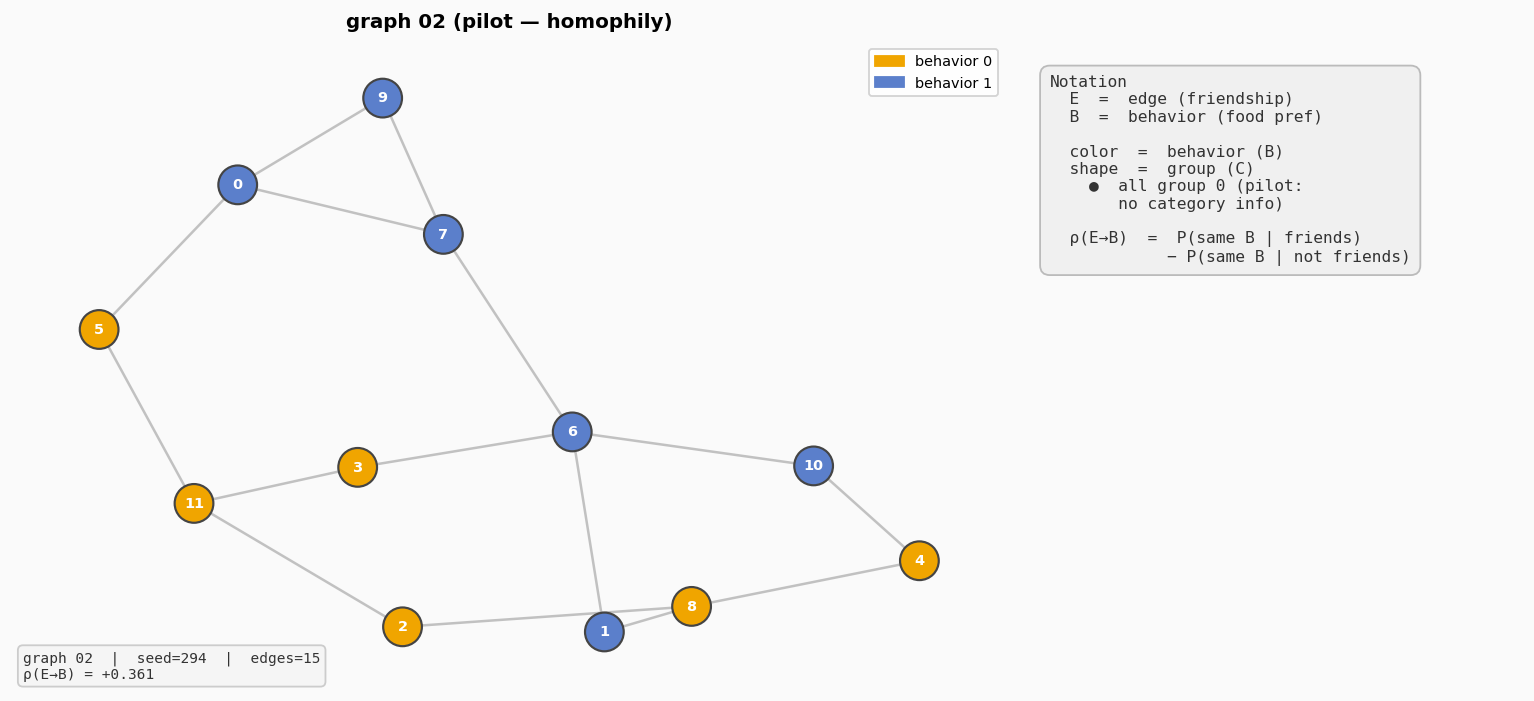
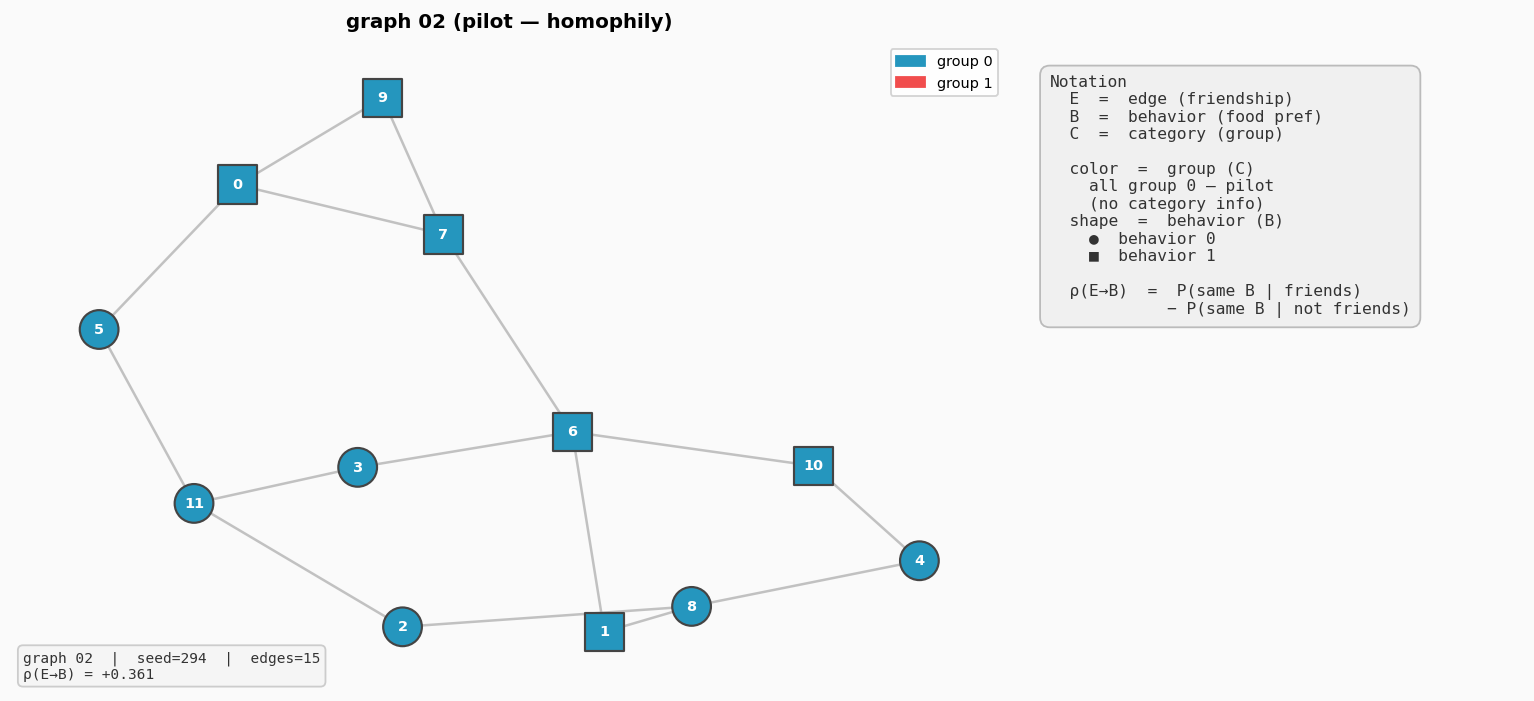
pngs

diff --git a/experiments/exp_1/scripts/generate_graphs.py b/experiments/exp_1/scripts/generate_graphs.py
@@ -19,73 +19,78 @@ N            = 12        # number of nodes (gazorps)
 N_EDGES      = 15        # exact number of edges required
 
 # stochastic block model params
-M    = 2                 # number of behavior communities
-K    = 2                 # number of group groups
+M            = 2         # number of behavior communities
+N_PER_BEH    = 6         # nodes per behavior community (must satisfy M * N_PER_BEH == N)
+K            = 2         # number of groups
+N_PER_GROUP  = 6         # nodes per group (must satisfy K * N_PER_GROUP == N)
 P_IN = 0.357             # within-community edge prob  (tuned for N_EDGES=15)
 P_OUT= 0.119             # between-community edge prob (tuned for N_EDGES=15)
 
 # correlation thresholds
-RHO_EB_MIN   = 0.15      # homophily cond: min ρ(E→B) — edge predicts behavior
-RHO_CB_MIN   = 0.15      # category cond:  min ρ(C→B) — group predicts behavior
-RHO_OTHER_MAX= 0.05      # max |ρ| for the non-signal cue in each condition
+RHO_EB_MIN   = 0.4     # homophily cond: min ρ(E→B) — edge predicts behavior
+RHO_CB_MIN   = 0.4      # category cond:  min ρ(C→B) — group predicts behavior
+RHO_OTHER_MAX= 0.015      # max |ρ| for the non-signal cue in each condition
 
 # other selection criteria
 MIN_DEGREE         = 2
 group_BALANCE_MAX= 0.30   # max |mean_deg_s0 − mean_deg_s1| / mean_deg
-MAX_ATTEMPTS       = 50000
+MAX_ATTEMPTS       = 500000000
 # ─────────────────────────────────────────────────────────────
+
+
+# precompute upper-triangle index pairs once
+_PI, _PJ = np.triu_indices(N, k=1)
 
 
 def compute_rho_EB(A, B):
     # ρ(E→B): P(same behavior | connected) − P(same behavior | not connected)
-    se, sn = [], []
-    for i in range(N):
-        for j in range(i + 1, N):
-            same = int(B[i] == B[j])
-            (se if A[i, j] == 1 else sn).append(same)
-    if not se or not sn:
+    same = (B[_PI] == B[_PJ])
+    conn = A[_PI, _PJ].astype(bool)
+    se, sn = same[conn], same[~conn]
+    if len(se) == 0 or len(sn) == 0:
         return 0.0
-    return float(np.mean(se) - np.mean(sn))
+    return float(se.mean() - sn.mean())
 
 
 def compute_rho_CB(C, B):
     # ρ(C→B): P(group matches behavior) − 0.5
-    return float(np.mean([B[i] == C[i] for i in range(N)]) - 0.5)
+    return float((B == C).mean() - 0.5)
 
 
 def try_make_graph(seed):
     rng = np.random.default_rng(seed)
 
-    latent_B = np.array([b for b in range(M) for _ in range(N // M)])
+    latent_B = np.array([b for b in range(M) for _ in range(N_PER_BEH)])
     rng.shuffle(latent_B)
 
+    # vectorized adjacency generation
+    same_beh = latent_B[_PI] == latent_B[_PJ]
+    probs    = np.where(same_beh, P_IN, P_OUT)
+    mask     = rng.random(len(_PI)) < probs
     A = np.zeros((N, N), dtype=int)
-    for i in range(N):
-        for j in range(i + 1, N):
-            p = P_IN if latent_B[i] == latent_B[j] else P_OUT
-            if rng.random() < p:
-                A[i, j] = A[j, i] = 1
+    A[_PI[mask], _PJ[mask]] = 1
+    A[_PJ[mask], _PI[mask]] = 1
+
+    edge_count = int(mask.sum())
+    if edge_count != N_EDGES:                          return None   # cheap check first
 
     G = nx.from_numpy_array(A)
-    edge_count = int(A.sum() // 2)
-
     if not nx.is_connected(G):                         return None
     if min(dict(G.degree()).values()) < MIN_DEGREE:    return None
-    if edge_count != N_EDGES:                          return None
 
     # homophily condition: behavior = latent, group = random (orthogonal)
-    B_hom    = latent_B.copy()
-    group_pool = np.array([g for g in range(K) for _ in range(N // K)])
-    C_hom    = group_pool.copy()
+    B_hom      = latent_B.copy()
+    group_pool = np.array([g for g in range(K) for _ in range(N_PER_GROUP)])
+    C_hom      = group_pool.copy()
     rng.shuffle(C_hom)
 
     rho_EB_hom = compute_rho_EB(A, B_hom)
-    rho_CB_hom = compute_rho_CB(C_hom, B_hom)
     if rho_EB_hom < RHO_EB_MIN:                       return None
+    rho_CB_hom = compute_rho_CB(C_hom, B_hom)
     if abs(rho_CB_hom) > RHO_OTHER_MAX:               return None
 
     # group balance check
-    deg      = np.array([int(A[i].sum()) for i in range(N)])
+    deg      = A.sum(axis=1)
     mean_deg = float(deg.mean())
     if abs(deg[C_hom == 0].mean() - deg[C_hom == 1].mean()) / mean_deg > group_BALANCE_MAX:
         return None
@@ -94,14 +99,13 @@ def try_make_graph(seed):
     epsilon = float(np.clip(0.5 - rho_EB_hom, 0.0, 0.5))
     C_cat   = group_pool.copy()
     rng.shuffle(C_cat)
-    B_cat   = np.zeros(N, dtype=int)
-    for i in range(N):
-        k = C_cat[i]
-        B_cat[i] = k if rng.random() > epsilon else 1 - k
+    flips   = rng.random(N) < epsilon
+    B_cat   = np.where(flips, 1 - C_cat, C_cat).astype(int)
 
+    if np.sum(B_cat == 0) != N_PER_BEH:               return None   # enforce 6/6 balance
     rho_CB_cat = compute_rho_CB(C_cat, B_cat)
-    rho_EB_cat = compute_rho_EB(A, B_cat)
     if rho_CB_cat < RHO_CB_MIN:                       return None
+    rho_EB_cat = compute_rho_EB(A, B_cat)
     if abs(rho_EB_cat) > RHO_OTHER_MAX:               return None
 
     edges     = [[int(i), int(j)] for i in range(N) for j in range(i+1, N) if A[i, j] == 1]
@@ -137,19 +141,21 @@ def try_make_graph(seed):
 
 
 # ── image generation ──────────────────────────────────────────
-# color = behavior (consistent across both panels)
-# shape = group: circle (0) vs square (1)
-BEH_COLORS = ['#f0a500', '#5b7fcb']   # behavior 0 / behavior 1
+# color = group/species (matches actual gazorp colors)
+# shape = behavior: circle (0) vs square (1)
+GRP_COLORS = ['#2596be', '#f14d4d']   # group 0 = blue gazorp / group 1 = red gazorp
 
 NOTATION_KEY = (
     "Notation\n"
     "  E  =  edge (friendship)\n"
     "  B  =  behavior (food pref)\n"
-    "  C  =  category\n\n"
-    "  color  =  behavior (B)\n"
-    "  shape  =  group (C)\n"
-    "    ●  group 0  (blue gazorp)\n"
-    "    ■  group 1  (red gazorp)\n\n"
+    "  C  =  category (group)\n\n"
+    "  color  =  group (C)\n"
+    "    ■  group 0  (blue gazorp)\n"
+    "    ■  group 1  (red gazorp)\n"
+    "  shape  =  behavior (B)\n"
+    "    ●  behavior 0\n"
+    "    ■  behavior 1\n\n"
     "  ρ(E→B)  =  P(same B | friends)\n"
     "            − P(same B | not friends)\n\n"
     "  ρ(C→B)  =  P(C matches B) − 0.5"
@@ -159,15 +165,22 @@ NOTATION_KEY = (
 def draw_graph(ax, A, behavior, group, edge_list, title, info_lines):
     G   = nx.from_numpy_array(A)
     pos = nx.spring_layout(G, seed=42, k=1.8 / np.sqrt(N))
+    # shift nodes into upper 80% of axes so bottom-left text box doesn't overlap
+    xs = np.array([p[0] for p in pos.values()])
+    ys = np.array([p[1] for p in pos.values()])
+    xs = (xs - xs.min()) / (xs.max() - xs.min() + 1e-9) * 0.85 + 0.05  # [0.05, 0.90]
+    ys = (ys - ys.min()) / (ys.max() - ys.min() + 1e-9) * 0.70 + 0.25  # [0.25, 0.95]
+    pos = {i: (xs[i], ys[i]) for i in pos}
+    ax.set_xlim(0, 1); ax.set_ylim(0, 1)
     nx.draw_networkx_edges(G, pos, edgelist=edge_list, ax=ax,
                            edge_color='#aaaaaa', width=1.4, alpha=0.7)
 
-    # draw circles (group=0) and squares (group=1) separately
-    for spe, shape in [(0, 'o'), (1, 's')]:
-        nodes = [i for i in range(N) if group[i] == spe]
+    # draw circles (behavior=0) and squares (behavior=1), colored by group
+    for beh, shape in [(0, 'o'), (1, 's')]:
+        nodes = [i for i in range(N) if behavior[i] == beh]
         if nodes:
             nx.draw_networkx_nodes(G, pos, nodelist=nodes, ax=ax,
-                                   node_color=[BEH_COLORS[behavior[i]] for i in nodes],
+                                   node_color=[GRP_COLORS[group[i]] for i in nodes],
                                    node_shape=shape, node_size=460,
                                    linewidths=1.2, edgecolors='#444')
 
@@ -192,7 +205,7 @@ def save_graph_image(g, out_dir):
                              gridspec_kw={'width_ratios': [2, 2, 1]})
     fig.patch.set_facecolor('#fafafa')
 
-    # left: homophily condition
+    # left: homophily condition — ρ(E→B) always first, ρ(C→B) always second
     info_hom = [
         f"graph {gid:02d}  |  seed={g['seed']}  |  edges={len(edges)}",
         f"ρ(E→B) = {hom['rho_EB']:+.3f}",
@@ -201,19 +214,19 @@ def save_graph_image(g, out_dir):
     draw_graph(axes[0], A, hom['behavior'], hom['group'],
                edges, f"graph {gid:02d} — homophily cond", info_hom)
 
-    # middle: category condition
+    # middle: category condition — same order: ρ(E→B) first, ρ(C→B) second
     info_cat = [
         f"ε = {g['epsilon']:.3f}",
-        f"ρ(C→B) = {cat['rho_CB']:+.3f}",
         f"ρ(E→B) = {cat['rho_EB']:+.3f}",
+        f"ρ(C→B) = {cat['rho_CB']:+.3f}",
     ]
     draw_graph(axes[1], A, cat['behavior'], cat['group'],
                edges, f"graph {gid:02d} — category cond", info_cat)
 
-    # shared behavior legend
-    beh_legend = [mpatches.Patch(color=BEH_COLORS[i], label=f'behavior {i}') for i in range(2)]
-    axes[0].legend(handles=beh_legend, loc='upper right', fontsize=8, framealpha=0.85)
-    axes[1].legend(handles=beh_legend, loc='upper right', fontsize=8, framealpha=0.85)
+    # shared group legend
+    grp_legend = [mpatches.Patch(color=GRP_COLORS[i], label=f'group {i}') for i in range(2)]
+    axes[0].legend(handles=grp_legend, loc='upper right', fontsize=8, framealpha=0.85)
+    axes[1].legend(handles=grp_legend, loc='upper right', fontsize=8, framealpha=0.85)
 
     # right: notation key
     axes[2].axis('off')

diff --git a/experiments/exp_1_pilot/scripts/generate_graphs.py b/experiments/exp_1_pilot/scripts/generate_graphs.py
@@ -18,7 +18,8 @@ N            = 12        # number of nodes (gazorps)
 N_EDGES      = 15        # exact number of edges required
 
 # stochastic block model params
-M    = 2                 # number of behavior communities
+M            = 2         # number of behavior communities
+N_PER_BEH    = 6         # nodes per behavior community (must satisfy M * N_PER_BEH == N)
 P_IN = 0.357             # within-community edge prob  (tuned for N_EDGES=15)
 P_OUT= 0.119             # between-community edge prob (tuned for N_EDGES=15)
 
@@ -46,7 +47,7 @@ def compute_rho_EB(A, B):
 def try_make_graph(seed):
     rng = np.random.default_rng(seed)
 
-    latent_B = np.array([b for b in range(M) for _ in range(N // M)])
+    latent_B = np.array([b for b in range(M) for _ in range(N_PER_BEH)])
     rng.shuffle(latent_B)
 
     A = np.zeros((N, N), dtype=int)
@@ -98,17 +99,20 @@ def try_make_graph(seed):
 
 
 # ── image generation ──────────────────────────────────────────
-# color = behavior; all nodes are circles (no group variation in pilot)
-BEH_COLORS = ['#f0a500', '#5b7fcb']   # behavior 0 / behavior 1
+# color = group (all blue gazorp in pilot); shape = behavior
+GRP_COLORS = ['#2596be', '#f14d4d']   # group 0 = blue gazorp / group 1 = red gazorp
 
 NOTATION_KEY = (
     "Notation\n"
     "  E  =  edge (friendship)\n"
-    "  B  =  behavior (food pref)\n\n"
-    "  color  =  behavior (B)\n"
-    "  shape  =  group (C)\n"
-    "    ●  all group 0 (pilot:\n"
-    "       no category info)\n\n"
+    "  B  =  behavior (food pref)\n"
+    "  C  =  category (group)\n\n"
+    "  color  =  group (C)\n"
+    "    all group 0 — pilot\n"
+    "    (no category info)\n"
+    "  shape  =  behavior (B)\n"
+    "    ●  behavior 0\n"
+    "    ■  behavior 1\n\n"
     "  ρ(E→B)  =  P(same B | friends)\n"
     "            − P(same B | not friends)"
 )
@@ -117,13 +121,23 @@ NOTATION_KEY = (
 def draw_graph(ax, A, behavior, group, edge_list, title, info_lines):
     G   = nx.from_numpy_array(A)
     pos = nx.spring_layout(G, seed=42, k=1.8 / np.sqrt(N))
+    # shift nodes into upper 80% of axes so bottom-left text box doesn't overlap
+    xs = np.array([p[0] for p in pos.values()])
+    ys = np.array([p[1] for p in pos.values()])
+    xs = (xs - xs.min()) / (xs.max() - xs.min() + 1e-9) * 0.85 + 0.05  # [0.05, 0.90]
+    ys = (ys - ys.min()) / (ys.max() - ys.min() + 1e-9) * 0.70 + 0.25  # [0.25, 0.95]
+    pos = {i: (xs[i], ys[i]) for i in pos}
+    ax.set_xlim(0, 1); ax.set_ylim(0, 1)
     nx.draw_networkx_edges(G, pos, edgelist=edge_list, ax=ax,
                            edge_color='#aaaaaa', width=1.4, alpha=0.7)
-    # all circles in pilot (group all 0)
-    nx.draw_networkx_nodes(G, pos, ax=ax,
-                           node_color=[BEH_COLORS[b] for b in behavior],
-                           node_shape='o', node_size=460,
-                           linewidths=1.2, edgecolors='#444')
+    # draw circles (behavior=0) and squares (behavior=1), colored by group
+    for beh, shape in [(0, 'o'), (1, 's')]:
+        nodes = [i for i in range(N) if behavior[i] == beh]
+        if nodes:
+            nx.draw_networkx_nodes(G, pos, nodelist=nodes, ax=ax,
+                                   node_color=[GRP_COLORS[group[i]] for i in nodes],
+                                   node_shape=shape, node_size=460,
+                                   linewidths=1.2, edgecolors='#444')
     nx.draw_networkx_labels(G, pos, ax=ax,
                             labels={i: str(i) for i in range(N)},
                             font_size=8, font_color='white', font_weight='bold')
@@ -150,7 +164,7 @@ def save_graph_image(g, out_dir):
     ]
     draw_graph(axes[0], A, hom['behavior'], hom['group'],
                edges, f"graph {gid:02d} (pilot — homophily)", info)
-    axes[0].legend(handles=[mpatches.Patch(color=BEH_COLORS[i], label=f'behavior {i}')
+    axes[0].legend(handles=[mpatches.Patch(color=GRP_COLORS[i], label=f'group {i}')
                              for i in range(2)],
                    loc='upper right', fontsize=8, framealpha=0.85)
 
